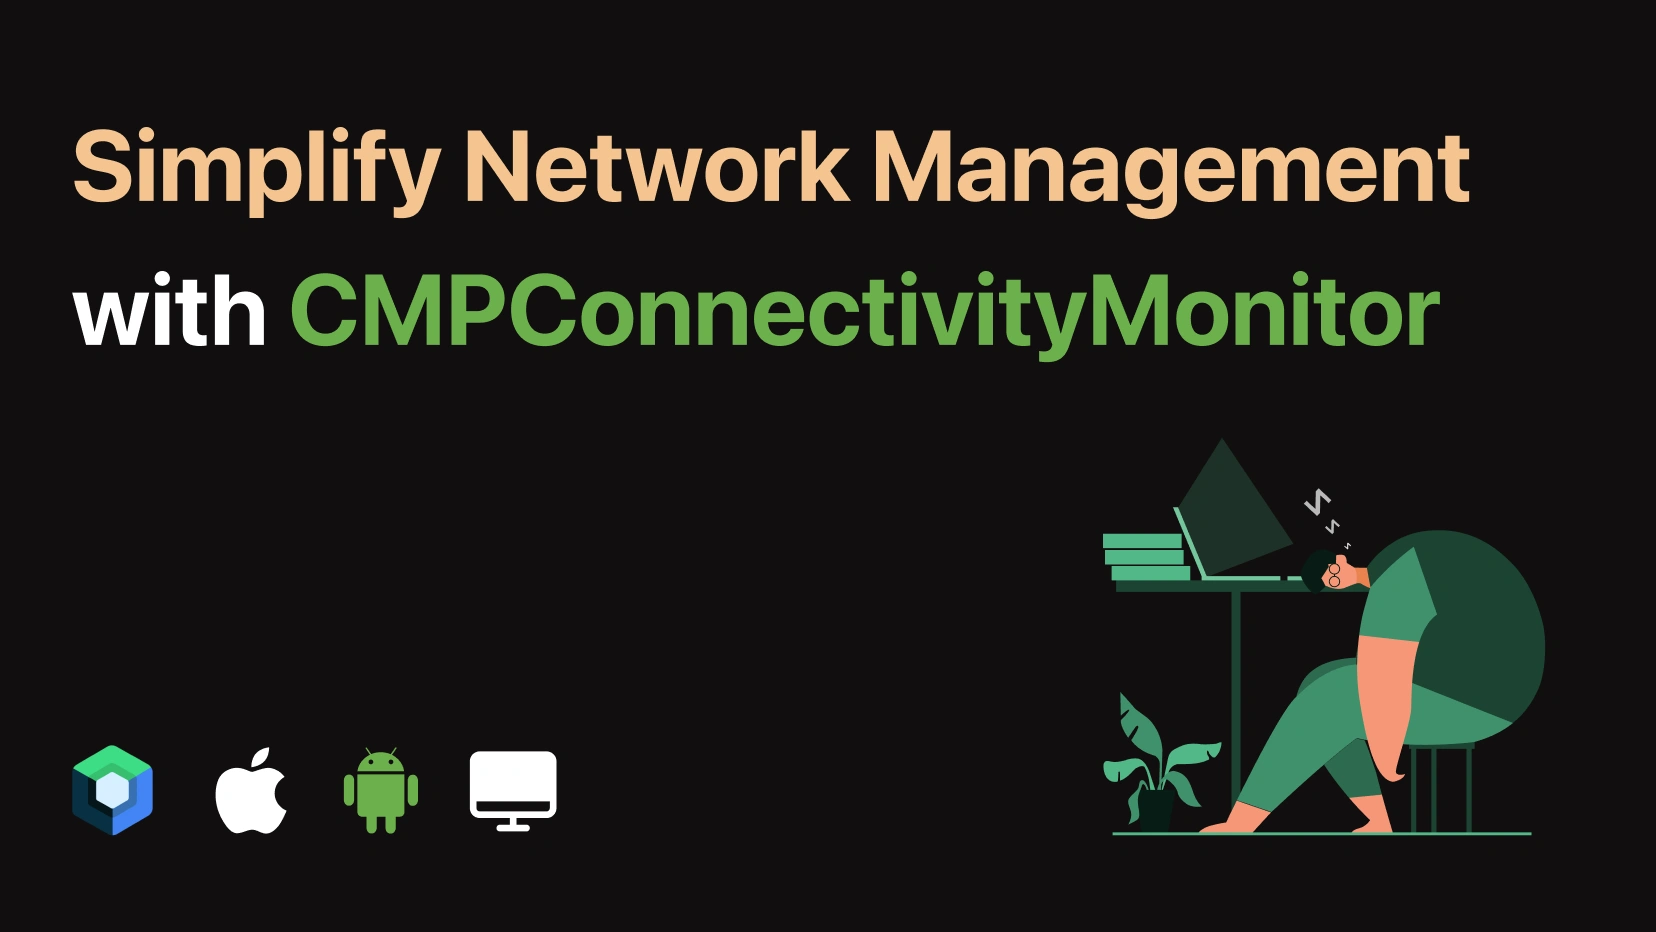
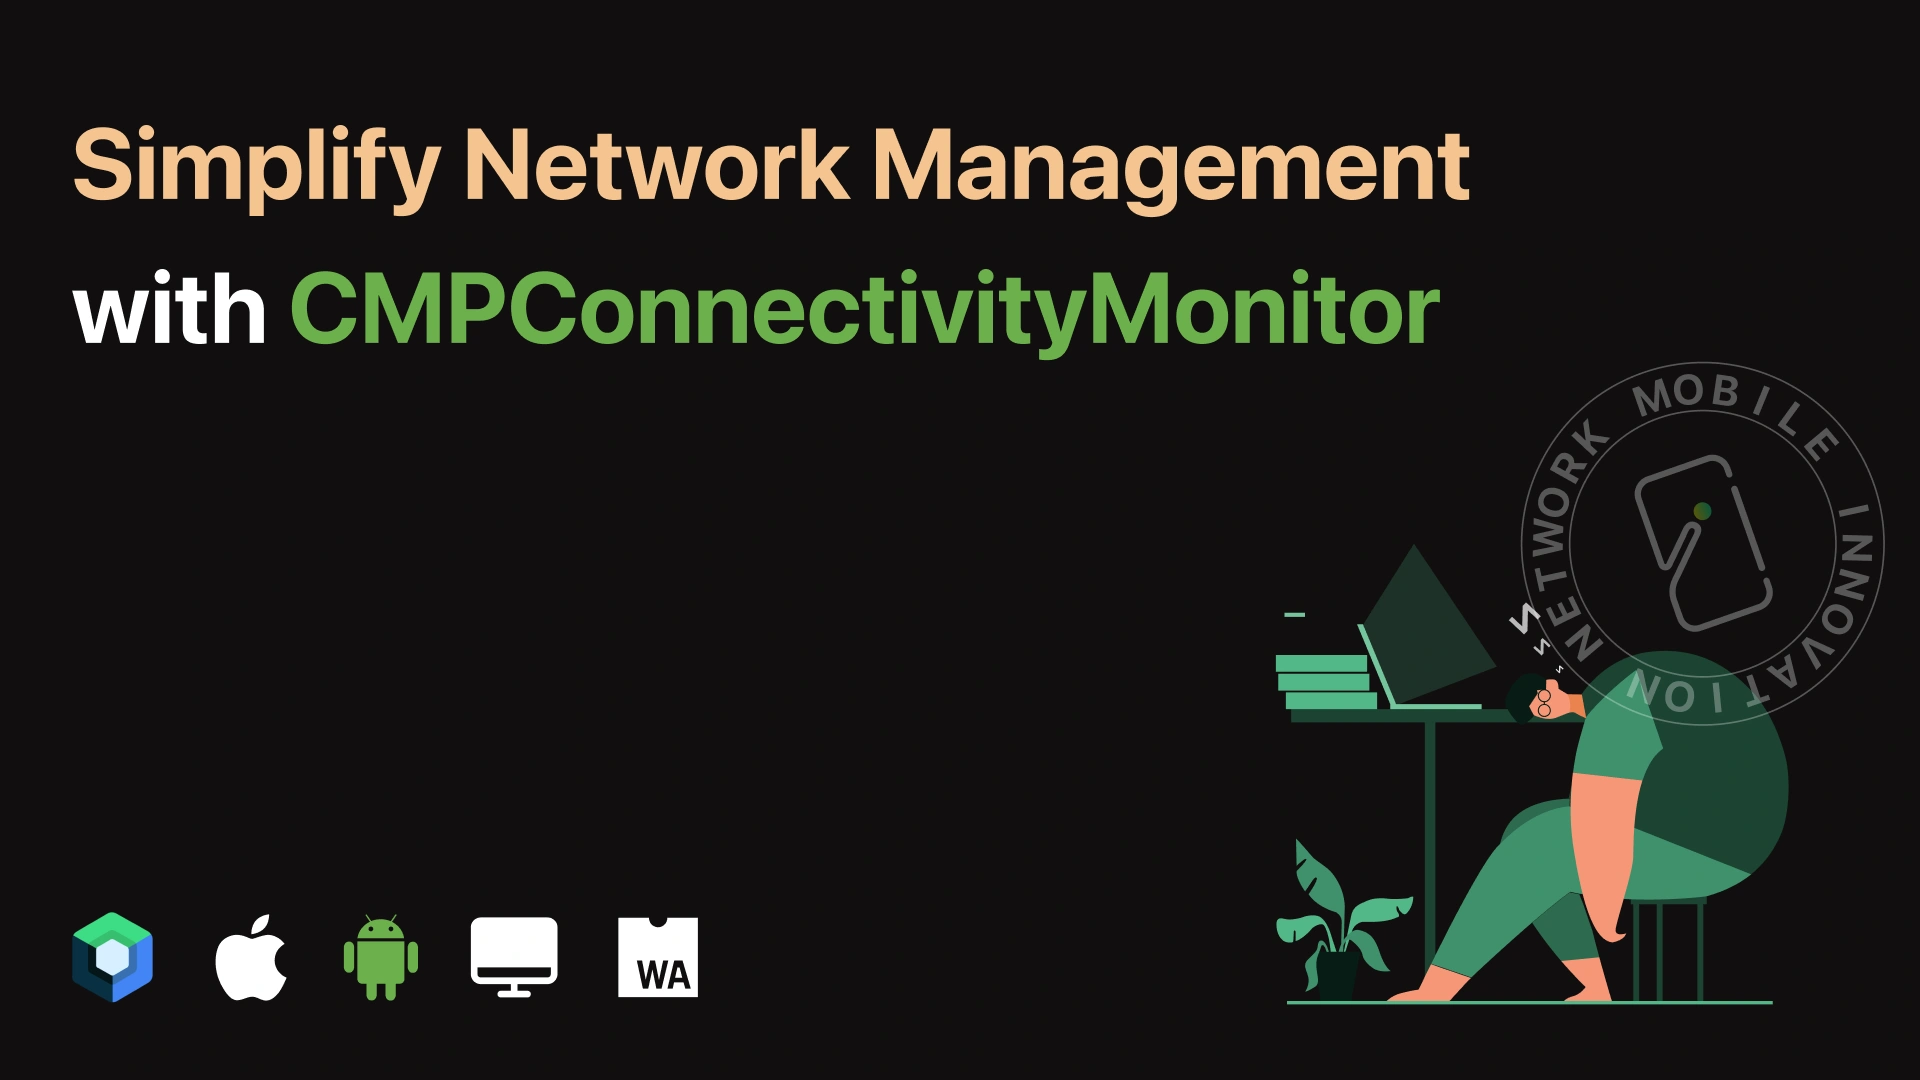
wasmJs support added

Changed region(s): [[0.0308, 0.0933, 0.9855, 0.9335], [0.0308, 0.7779, 0.3696, 0.9335]]

diff --git a/composeApp/src/wasmJsMain/resources/index.html b/composeApp/src/wasmJsMain/resources/index.html
@@ -1,0 +1,21 @@
+<!doctype html>
+<html lang="en">
+    <head>
+        <meta charset="UTF-8">
+        <meta name="viewport" content="width=device-width, initial-scale=1.0">
+        <link rel="icon" href="/favicon.ico" sizes="any">
+        <title>Multiplatform App</title>
+        <style>
+            html,
+            body {
+                width: 100%;
+                height: 100%;
+                margin: 0;
+                padding: 0;
+                overflow: hidden;
+            }
+        </style>
+    </head>
+    <body></body>
+    <script src="composeApp.js"></script>
+</html>

diff --git a/composeApp/src/wasmJsMain/kotlin/main.kt b/composeApp/src/wasmJsMain/kotlin/main.kt
@@ -1,0 +1,12 @@
+import androidx.compose.ui.ExperimentalComposeUiApi
+import androidx.compose.ui.window.ComposeViewport
+import chaintech.network.app.App
+import kotlinx.browser.document
+
+@OptIn(ExperimentalComposeUiApi::class)
+fun main() {
+    val body = document.body ?: return
+    ComposeViewport(body) {
+        App()
+    }
+}

diff --git a/composeApp/src/wasmJsMain/kotlin/chaintech/network/app/theme/Theme.wasmJs.kt b/composeApp/src/wasmJsMain/kotlin/chaintech/network/app/theme/Theme.wasmJs.kt
@@ -1,0 +1,7 @@
+package chaintech.network.app.theme
+
+import androidx.compose.runtime.Composable
+
+@Composable
+internal actual fun SystemAppearance(isDark: Boolean) {
+}

diff --git a/README.md b/README.md
@@ -1,13 +1,14 @@
 # Compose Multiplatform Connectivity Monitor
 [![Maven Central](https://img.shields.io/maven-central/v/network.chaintech/compose-connectivity-monitor.svg)](https://central.sonatype.com/artifact/network.chaintech/compose-connectivity-monitor)
-[![Kotlin](https://img.shields.io/badge/kotlin-v2.1.0-blue.svg?logo=kotlin)](http://kotlinlang.org)
-[![Compose Multiplatform](https://img.shields.io/badge/Compose%20Multiplatform-v1.7.3-blue)](https://github.com/JetBrains/compose-multiplatform)
+[![Kotlin](https://img.shields.io/badge/kotlin-v2.1.20-blue.svg?logo=kotlin)](http://kotlinlang.org)
+[![Compose Multiplatform](https://img.shields.io/badge/Compose%20Multiplatform-v1.8.0_rc01-blue)](https://github.com/JetBrains/compose-multiplatform)
 
 ![badge-android](http://img.shields.io/badge/platform-android-3DDC84.svg?style=flat)
 ![badge-ios](http://img.shields.io/badge/platform-ios-FF375F.svg?style=flat)
 ![badge-desktop](http://img.shields.io/badge/platform-desktop-FF9500.svg?style=flat)
+![badge-desktop](http://img.shields.io/badge/platform-wasm-42F59E.svg?style=flat)
 
-CMPConnectivityMonitor is a Compose Multiplatform library that provides seamless network connectivity monitoring for Android, iOS and Desktop platforms. It helps you easily detect and respond to changes in network status within your Compose Multiplatform applications.
+CMPConnectivityMonitor is a Compose Multiplatform library that provides seamless network connectivity monitoring for Android, iOS, wasmJs and Desktop platforms. It helps you easily detect and respond to changes in network status within your Compose Multiplatform applications.
 
 ![git-banner](./assets/git-banner.webp)
 
@@ -15,7 +16,7 @@ CMPConnectivityMonitor is a Compose Multiplatform library that provides seamless
 - Monitors network connectivity status in real-time.
 - Supports both Wi-Fi and Cellular network types.
 - Provides connectivity status updates via a simple and consistent API.
-- Supports iOS, Android and Desktop platforms.
+- Supports iOS, Android, wasmJs and Desktop platforms.
 
 ## Installation
 
@@ -23,7 +24,7 @@ Add the following dependency to your `build.gradle.kts` file:
 
 ```kotlin
 commonMain.dependencies {
-    implementation("network.chaintech:compose-connectivity-monitor:1.0.1")
+    implementation("network.chaintech:compose-connectivity-monitor:1.0.2")
 }
 ```
 ## Setup
